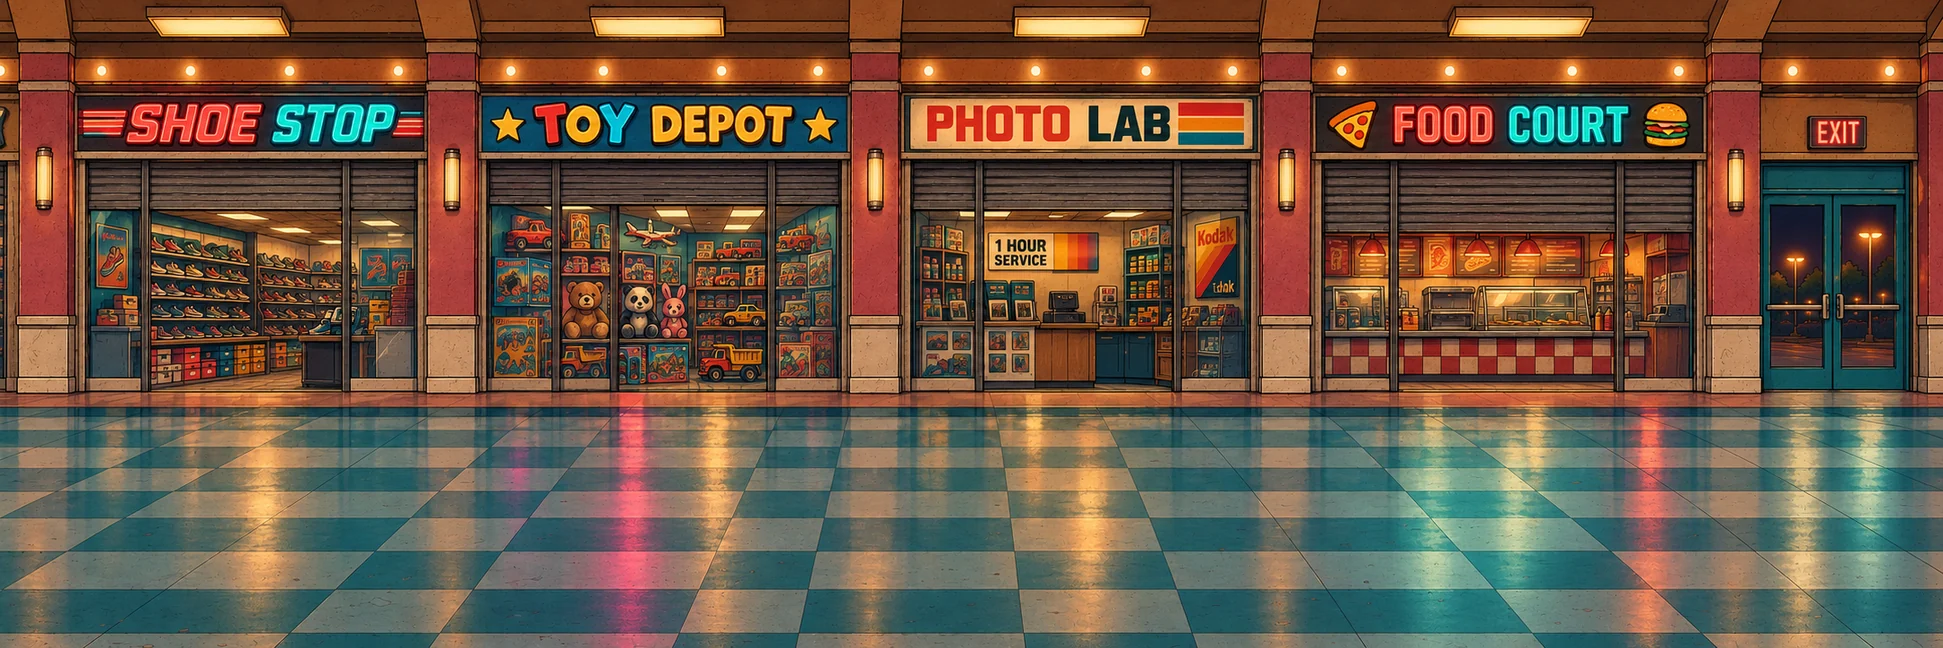
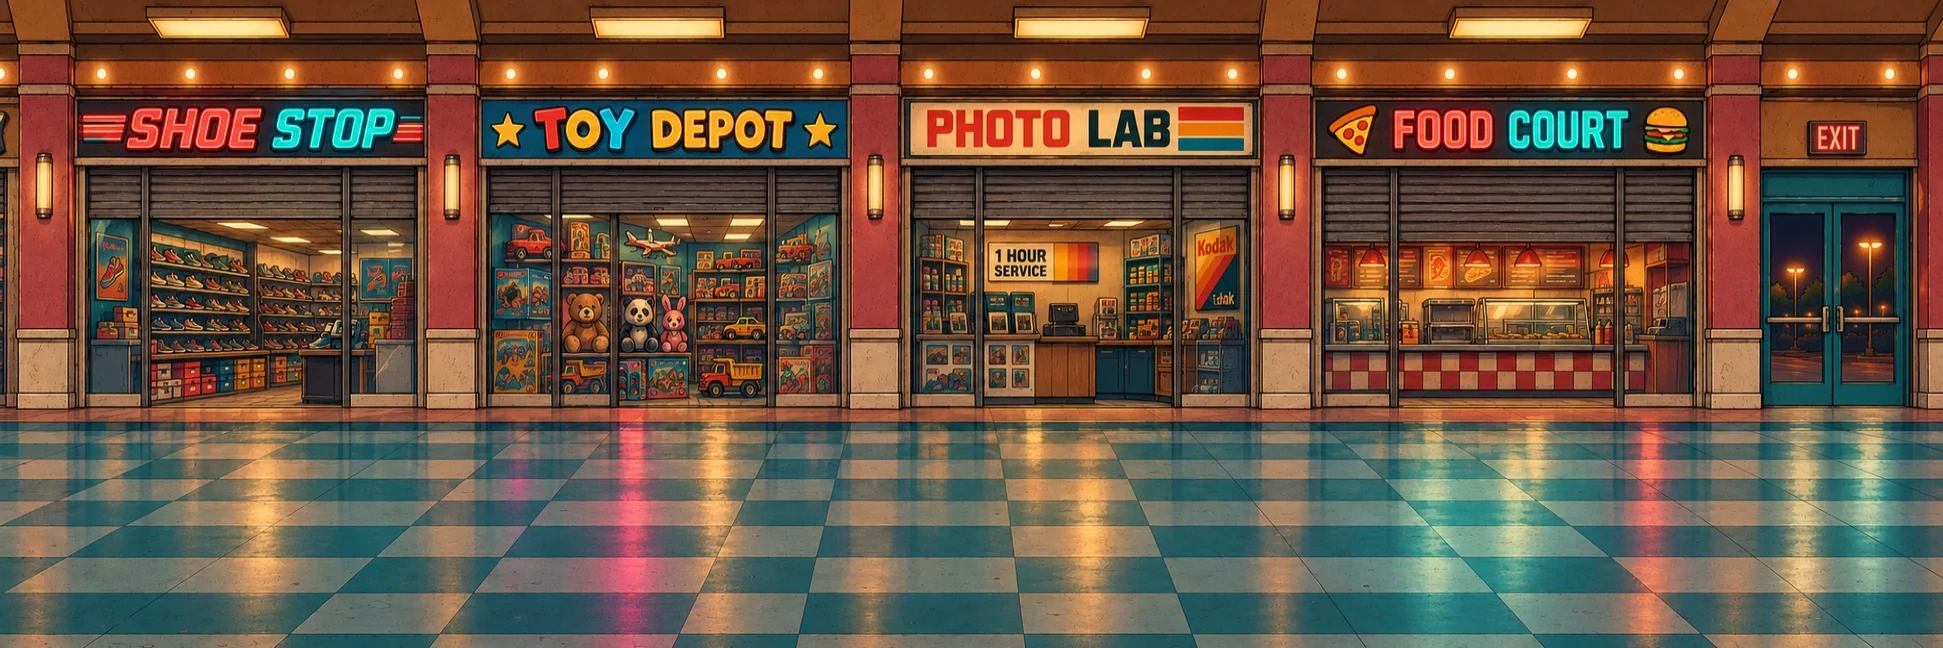
Consistent stage backdrops: 62% floor line, seamless repeats, smooth joins
- Maple Court's three older paintings now meet the 62% floor line the other 27 share: the mall
  floor moved down 16 px and the parking lot curb 46 px (the lot is pushed down under extended sky
  rather than stretched). The suburb street and the parking lot are trimmed at their best-matching
  columns and blended, so they repeat without a seam.
- Each area's painting now starts at an offset chosen so both ends of every area fall on quiet wall
  (tools/bg_phase.py) instead of cutting through signs.
- Joins fade smoothly over 64 px centred on the join (was a stepped 36 px fade after it).
- Stage 1 draws through the same path as the other stages once its paintings are in.
- tools/fix_bg.py does the floor and loop fixes for any future painting. Art version 2026.11.04-1.

Claude-Session: https://claude.ai/code/session_01F6d7yiNU11ZJhcT1A4j6AT

diff --git a/index.html b/index.html
@@ -228,7 +228,7 @@ kbd{font-family:var(--pixel);font-size:9px;color:#1c0b07;background:var(--cream)
   </div>
 </div>
 
-<script src="art/manifest.js?v=2026.11.03-7"></script>
+<script src="art/manifest.js?v=2026.11.04-1"></script>
 <script src="game-core.js?v=2026.11.03-5"></script>
 <script>
 (()=>{
@@ -1365,7 +1365,7 @@ function update(){
 const ART=globalThis.LF_ART||{};
 const SPR={};
 // Bump ART_V whenever art files are replaced under the same names, so browsers fetch the new pictures.
-const ART_V='2026.11.03-7',AV=u=>u+'?v='+ART_V;
+const ART_V='2026.11.04-1',AV=u=>u+'?v='+ART_V;
 /* ---------- picture loading ----------
    Everything used to be requested at once, so on a phone the heroes could take seconds to appear while 400 files
    fought for the line, and a file that failed stayed on its drawn stand-in until a reload. Now pictures go through one
@@ -1732,18 +1732,13 @@ const BGIMG={},BGTRY={};
 function bgImg(k,pri=5,boot=false){if(!BGTRY[k]){BGTRY[k]=1;queueImg(AV('art/bg-'+k+'.webp'),pri,boot,i=>{BGIMG[k]=i;});}return BGIMG[k]||null;}
 for(const z of LFCore.levelZones(STG.cur))bgImg(z[0],-1,true);let BGPRE=0;
 const ZONES=LFCore.levelZones(1);
+/* Where each area's painting starts (game px into the painting). Chosen by tools/bg_phase.py so both ends of every area
+   land on a quiet stretch of wall rather than through a sign; re-run it if a painting or an area's length changes. */
+const BGBL=32;
+const BGOFF={"suburb":296,"mall":603,"lot":224,"school-hall":116,"school-gym":214,"school-field":359,"camp-cabins":143,"camp-lake":108,"camp-woods":574,"rink-snack":181,"rink-floor":586,"rink-dj":68,"drivein-stand":189,"drivein-cars":103,"drivein-screen":26,"bowl-lanes":64,"bowl-arcade":23,"bowl-bar":632,"video-shelves":26,"video-dock":631,"video-office":206,"water-wave":249,"water-slides":26,"water-lockers":539,"tv-news":332,"tv-studio":617,"tv-roof":7,"crater-woods":461,"crater-hull":73,"crater-core":538};
 function drawZoneImg(k,a,b,cam,x0,x1){
-  const img=BGIMG[k],tw=img.width*H/img.height;
-  for(let wx=a+Math.floor((Math.max(a,cam+x0)-a)/tw)*tw;wx<Math.min(b,cam+x1);wx+=tw)ctx.drawImage(img,wx-cam,0,tw+.6,H);
-}
-function drawBGImages(cam){
-  if(!BGIMG.suburb||!BGIMG.mall||!BGIMG.lot)return false;
-  for(const [k,a,b] of ZONES){const x0=Math.max(a,cam)-cam,x1=Math.min(b,cam+W)-cam;if(x1<=x0)continue;
-    ctx.save();ctx.beginPath();ctx.rect(x0,0,x1-x0,H);ctx.clip();drawZoneImg(k,a,b,cam,x0,x1);ctx.restore();}
-  // Cross-fade 36px across each area boundary so the cut between panoramas isn't a hard seam.
-  for(const [prev,pa,a] of [['suburb',0,1250],['mall',1250,2450]]){const sx=a-cam;if(sx<-40||sx>W)continue;
-    for(let j=0;j<12;j++){const x=sx+j*3;ctx.save();ctx.beginPath();ctx.rect(x,0,3,H);ctx.clip();ctx.globalAlpha=1-(j+.5)/12;drawZoneImg(prev,pa,a+40,cam,x,x+3);ctx.restore();}}
-  return true;
+  const img=BGIMG[k],tw=img.width*H/img.height,o=a-(BGOFF[k]||0);
+  for(let wx=o+Math.floor((cam+x0-o)/tw)*tw;wx<cam+x1;wx+=tw)ctx.drawImage(img,wx-cam,0,tw+.6,H);
 }
 function bgPrefetch(L){
   // fetch this stage's paintings (and the next stage's) up front, so no area shows the fallback while its picture loads
@@ -1752,8 +1747,7 @@ function bgPrefetch(L){
 function drawBG(cam,L){
   L=L||(G&&G.level)||1;
   bgPrefetch(L);   // every stage, Maple Court included: its paintings were only fetched when it was the stage selected at startup
-  if(L>1)return drawStageBG(cam,L);
-  if(drawBGImages(cam))return;
+  if(L>1||BGIMG.suburb&&BGIMG.mall&&BGIMG.lot)return drawStageBG(cam,L);   // Maple Court keeps its hand-drawn street until its paintings arrive
   // sunset sky
   const g=ctx.createLinearGradient(0,0,0,TOP);g.addColorStop(0,'#4a1430');g.addColorStop(.45,'#c43a4a');g.addColorStop(.8,'#ff8a3c');g.addColorStop(1,'#ffc93c');rect(0,0,W,TOP,g);
   for(let i=0;i<30;i++){const x=(((i*97-cam*.08)%W)+W)%W,y=(i*53)%50;rect(x|0,y,1,1,i%5?'#ffb0a0':'#ffe9c2');}
@@ -1829,8 +1823,12 @@ function drawStageBG(cam,L){
     ctx.save();ctx.beginPath();ctx.rect(x0,0,x1-x0,H);ctx.clip();
     if(bgImg(k))drawZoneImg(k,a,b,cam,x0,x1);else drawPalZone(k,a,b,pal||{k:'outdoor',sky:'#1a0a2a',wall:'#45221a',acc:'#ffc93c',f1:'#5e3426',f2:'#522e20'},cam);
     ctx.restore();}
-  for(let i=1;i<zs.length;i++){const [pk,pa]=zs[i-1],a=zs[i][1],sx=a-cam;if(sx<-40||sx>W||!BGIMG[pk]||!BGIMG[zs[i][0]])continue;
-    for(let j=0;j<12;j++){const x=sx+j*3;ctx.save();ctx.beginPath();ctx.rect(x,0,3,H);ctx.clip();ctx.globalAlpha=1-(j+.5)/12;drawZoneImg(pk,pa,a+40,cam,x,x+3);ctx.restore();}}
+  // Each join fades smoothly over 64 px centred on it: the next area eases in over the last 32 px of the old one, and the
+  // old one eases out over the first 32 px of the next.
+  for(let i=1;i<zs.length;i++){const [pk,pa]=zs[i-1],[nk,a]=zs[i],sx=a-cam;if(sx<-BGBL||sx>W+BGBL||!BGIMG[pk]||!BGIMG[nk])continue;
+    for(let x=-BGBL;x<BGBL;x+=2){if(sx+x+2<0||sx+x>W)continue;const t=(x+BGBL+1)/(2*BGBL),w=t*t*(3-2*t),before=x<0;
+      ctx.save();ctx.beginPath();ctx.rect(sx+x,0,2,H);ctx.clip();ctx.globalAlpha=before?w:1-w;
+      if(before)drawZoneImg(nk,a,a,cam,sx+x,sx+x+2);else drawZoneImg(pk,pa,a,cam,sx+x,sx+x+2);ctx.restore();}}
 }
 function drawPalZone(key,a,b,P,cam){
   const sg=ctx.createLinearGradient(0,0,0,TOP);sg.addColorStop(0,'#0a0610');sg.addColorStop(1,P.sky);rect(0,0,W,TOP,sg);

diff --git a/tools/fix_bg.py b/tools/fix_bg.py
@@ -1,0 +1,67 @@
+#!/usr/bin/env python3
+"""Bring a stage backdrop into line with the others: floor line at 62% of the height, and a seamless repeat.
+
+    python3 tools/fix_bg.py <key> [--floor ROW] [--sky ROWS] [--loop]
+
+--floor ROW   the row (in the 648-px-tall painting) where the floor currently begins; the painting is remapped so it
+              begins at row 402 (= TOP 134 of 216, 62%), the line every backdrop and the game's playfield share.
+--sky ROWS    when the floor has to move down a lot, first push the painting down by ROWS and fill the gap with the
+              painting's own sky (smoothed, a touch darker toward the top) so buildings and cars aren't stretched.
+--loop        trim the painting to the pair of columns near its two ends that match best, and blend 48 px across the
+              join, so it repeats without a visible seam.
+"""
+import sys, numpy as np
+from PIL import Image
+from scipy import ndimage
+
+ROOT = __import__('os').path.dirname(__import__('os').path.dirname(__import__('os').path.abspath(__file__)))
+FLOOR = 402
+
+def remap_rows(a, knots):
+    H = a.shape[0]; ys, yo = zip(*knots)
+    src = np.interp(np.arange(H), yo, ys)                 # output row -> source row
+    y0 = np.floor(src).astype(int).clip(0, H - 1); y1 = (y0 + 1).clip(0, H - 1); t = (src - y0)[:, None, None]
+    return a[y0] * (1 - t) + a[y1] * t
+
+def sky_push(a, d):
+    H = a.shape[0]
+    band = ndimage.uniform_filter1d(a[:6].mean(0), 41, axis=0)        # the painting's top sky, smoothed along x
+    fill = np.repeat(band[None], d, 0) * np.linspace(.9, 1, d)[:, None, None]
+    rng = np.random.default_rng(7); fill += rng.normal(0, 2.0, fill.shape)
+    out = np.concatenate([fill, a[:H - d]], 0)
+    k = 6                                                              # soften the join into the original sky
+    for i in range(k): w = (i + 1) / (k + 1); out[d + i] = out[d + i] * w + fill[-1] * (1 - w)
+    return out
+
+def loop(a, search=320, win=24, blend=48):
+    H, W, _ = a.shape; g = a.mean(2)
+    best = None
+    for c1 in range(win, search):
+        L = a[:, c1 - win:c1]
+        for c2 in range(W - search, W - win, 2):
+            e = np.abs(a[:, c2 - win:c2] - L).mean()
+            if best is None or e < best[0]: best = (e, c1, c2)
+    e, c1, c2 = best
+    out = a[:, c1:c2].copy()                      # tile = columns c1..c2-1; column c2 ~ column c1 continues it
+    n = out.shape[1]
+    for i in range(blend):                        # last `blend` columns ease into what follows c2-1, i.e. the tile's start
+        w = (i + 1) / (blend + 1); w = w * w * (3 - 2 * w)
+        out[:, n - blend + i] = a[:, c2 - blend + i] * (1 - w) + a[:, c1 - blend + i] * w
+    return out, (c1, c2, e)
+
+def main():
+    args = sys.argv[1:]; key = args[0]
+    p = f'{ROOT}/art/bg-{key}.webp'
+    a = np.asarray(Image.open(p).convert('RGB')).astype(float); H = a.shape[0]
+    if '--sky' in args:
+        d = int(args[args.index('--sky') + 1]); a = sky_push(a, d)
+    if '--floor' in args:
+        f = int(args[args.index('--floor') + 1]) + (int(args[args.index('--sky') + 1]) if '--sky' in args else 0)
+        a = remap_rows(a, [(0, 0), (f, FLOOR), (H - 1, H - 1)])
+    if '--loop' in args:
+        a, info = loop(a); print(key, 'loop cols', info[:2], 'match err %.1f' % info[2])
+    Image.fromarray(a.clip(0, 255).astype(np.uint8)).save(p, 'WEBP', quality=90, method=6)
+    print(key, Image.open(p).size)
+
+if __name__ == '__main__':
+    main()

diff --git a/tools/bg_phase.py b/tools/bg_phase.py
@@ -1,0 +1,41 @@
+#!/usr/bin/env python3
+"""Choose where each area's backdrop painting starts so the joins between areas fall on quiet wall, not through signs.
+
+    python3 tools/bg_phase.py        # prints the BGOFF table; paste it over  const BGOFF={...}  in index.html
+
+Reads the stages' areas and lengths from game-core.js. For each area it scores every starting column by the detail in the
+painting's wall band (rows above the 62% floor line) within 32 px of where the area begins and ends (the join fades
+over 64 px), and keeps the quietest. The first area's start and the last area's end aren't joins, so they don't count.
+"""
+import os, json, subprocess, numpy as np
+from PIL import Image
+
+ROOT = os.path.dirname(os.path.dirname(os.path.abspath(__file__)))
+BL = 32
+
+def stages():
+    js = "const C=require(process.argv[1]);const L=globalThis.LFCore||C.LFCore||C;console.log(JSON.stringify(L.LEVELS.map(l=>l.zones.map(z=>[z[0],z[1]]))))"
+    try:
+        return json.loads(subprocess.check_output(['node', '-e', js, os.path.join(ROOT, 'game-core.js')], stderr=subprocess.DEVNULL))
+    except Exception:
+        import re
+        src = open(os.path.join(ROOT, 'game-core.js')).read()
+        return [[(k, int(n)) for k, n in re.findall(r"\['([a-z-]+)',(\d+)", m)] for m in re.findall(r"zones:\[(.*?)\]\]", src)]
+
+def busy(k):
+    im = Image.open(f'{ROOT}/art/bg-{k}.webp').convert('L'); tw = im.width * 216 / im.height
+    a = np.asarray(im.resize((round(tw), 216), Image.BOX)).astype(float)[8:134]
+    g = np.abs(np.diff(a, axis=1, append=a[:, :1])).mean(0)
+    return np.convolve(np.concatenate([g[-BL:], g, g[:BL]]), np.ones(2 * BL + 1) / (2 * BL + 1), 'valid')
+
+def main():
+    off = {}
+    for st in stages():
+        for i, (k, l) in enumerate(st):
+            b = busy(k); n = len(b)
+            cost = [(b[o] if i else 0) + (b[int(round(l + o)) % n] if i < len(st) - 1 else 0) for o in range(n)]
+            off[k] = int(np.argmin(cost))
+    print('const BGOFF=' + json.dumps(off, separators=(',', ':')) + ';')
+
+if __name__ == '__main__':
+    main()
